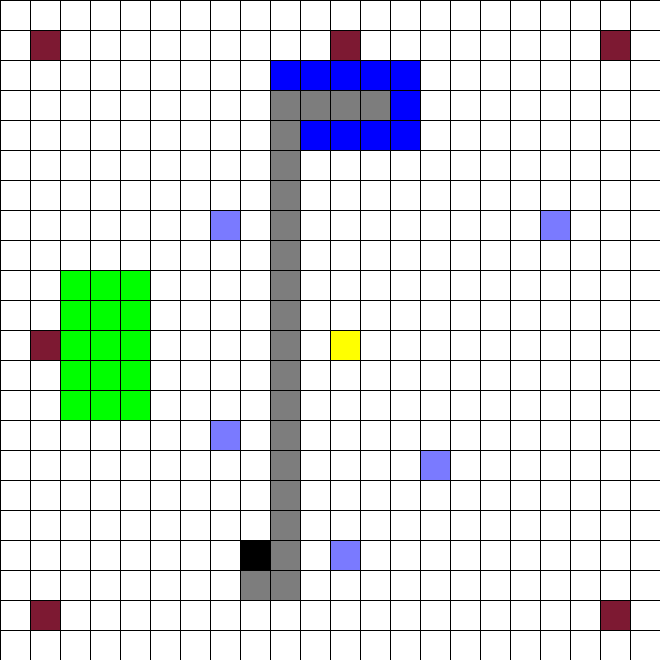
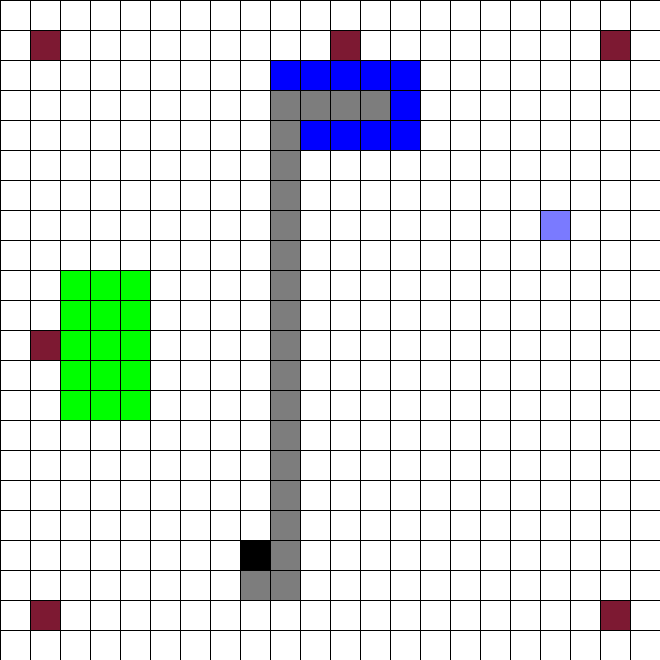
[command center for bots]

diff --git a/Dijkstar_Algo.py b/Dijkstar_Algo.py
@@ -127,7 +127,8 @@ def find_closest_indices(grid, value1, value2):
     return None
 
 def position_Bot(bot_id,grid,img_id): #img_id is just for output of process and is not nedded
-    
+    final_path = []
+    matrix_array = np.array(grid)
     if bot_id == '6':
         closest_start, closest_end, min_distance = find_closest_indices(matrix_array, '6', '9')
         closest_end = (closest_end[0]+1,closest_end[1])
@@ -135,10 +136,12 @@ def position_Bot(bot_id,grid,img_id): #img_id is just for output of process and 
         grid[closest_end[0] - 1][closest_end[1]] = 'b'
         grid[closest_start[0]][closest_start[1]] = 'a'
         grid[closest_end[0]][closest_end[1]] = '6'
-        
+
         matrix_array = np.array(grid)
-        cv2.imshow('1PathGrid{}'.format(u),draw_grid(grid,path))
-        cv2.imwrite('images/Dijkstar/bot1/{}PathGrid.png'.format(img_id),draw_grid(grid,path))
+        # cv2.imshow('1PathGrid{}'.format(img_id),draw_grid(grid,path))
+        # cv2.imwrite('images/Dijkstar/bot1/{}PathGrid.png'.format(img_id),draw_grid(grid,path))
+
+        final_path.append({1:path})
 
     if bot_id == '7':
         closest_start, closest_end, min_distance = find_closest_indices(matrix_array, '7', '8')
@@ -149,78 +152,71 @@ def position_Bot(bot_id,grid,img_id): #img_id is just for output of process and 
         grid[closest_end[0]][closest_end[1]] = '7'
         
         matrix_array = np.array(grid)
-        cv2.imshow('2PathGrid{}'.format(u),draw_grid(grid,path))
-        cv2.imwrite('images/Dijkstar/bot2/{}PathGrid.png'.format(img_id),draw_grid(grid,path))
+        # cv2.imshow('2PathGrid{}'.format(img_id),draw_grid(grid,path))
+        # cv2.imwrite('images/Dijkstar/bot2/{}PathGrid.png'.format(img_id),draw_grid(grid,path))
+
+        final_path.append({2:path})
+    final_path = final_path[0] if final_path else {}
+    return final_path,grid
+
+def take_home(bot_id,grid,img_id): #img_id is just for output of process and is not nedded
+    final_path = []
+    matrix_array = np.array(grid)
+    if bot_id == '6':
+        closest_start, closest_end, min_distance = find_closest_indices(matrix_array, '6', '4')
+        closest_end = (closest_end[0] + 2, closest_end[1] + 1)
+        path = astar(closest_start, closest_end, grid)
+        grid[closest_start[0]][closest_start[1]] = 'a'
+        grid[closest_start[0] - 1][closest_start[1]] = 'a'
+        grid[closest_end[0]][closest_end[1]] = '6'
+        matrix_array = np.array(grid)
+
+        final_path.append({1:path})
+        # cv2.imshow('1PushGrid{}'.format(img_id),draw_grid(grid,path))
+        # cv2.imwrite('images/Dijkstar/bot1/{}PushGrid.png'.format(img_id),draw_grid(grid,path))
+
+    if bot_id == '7':
+        closest_start, closest_end, min_distance = find_closest_indices(matrix_array, '7', '5')
+        closest_end = (closest_end[0] +1, closest_end[1] + 2)
+        path = astar(closest_start, closest_end, grid)
+        grid[closest_start[0]][closest_start[1]] = 'a'
+        grid[closest_start[0] - 1][closest_start[1]] = 'a'
+        grid[closest_end[0]][closest_end[1]] = '7'
+        matrix_array = np.array(grid)
+
+        final_path.append({2:path})
+        # cv2.imshow('2PushGrid{}'.format(img_id),draw_grid(grid,path))
+        # cv2.imwrite('images/Dijkstar/bot2/{}PushGrid.png'.format(img_id),draw_grid(grid,path))
+    final_path = final_path[0] if final_path else {}
+    return final_path,grid
 
 def main():
 
     image_path = '\Yantra_Swarmonoid-trainingMaterial\images\BoardGrid.png'
     grid =generate_matrix_from_image(cv2.imread(image_path))[0]
     matrix_array = np.array(grid)
+    img_id=1
+    while find_closest_indices(matrix_array, '6', '9') != None or find_closest_indices(matrix_array, '7', '8') != None:
+        pick_path = []
+        return_path = []
+        if find_closest_indices(matrix_array, '6', '9') != None:
+            obj_path,grid = position_Bot('6',grid,img_id)
+            ret_path,grid = take_home('6',grid,img_id) 
+            pick_path.append(obj_path)
+            return_path.append(ret_path)
 
-    u=1
-    while find_closest_indices(matrix_array, '6', '9') is not None or find_closest_indices(matrix_array, '7', '8') is not None:
-        if find_closest_indices(matrix_array, '6', '9') is not None:
-            closest_start, closest_end, min_distance = find_closest_indices(matrix_array, '6', '9')
-            closest_end = (closest_end[0]+1,closest_end[1])
-            path = astar(closest_start, closest_end,grid)
-            grid[closest_end[0] - 1][closest_end[1]] = 'b'
-            grid[closest_start[0]][closest_start[1]] = 'a'
-            grid[closest_end[0]][closest_end[1]] = '6'
-            
-            matrix_array = np.array(grid)
-            cv2.imshow('1PathGrid{}'.format(u),draw_grid(grid,path))
-            cv2.imwrite('images/Dijkstar/bot1/{}PathGrid.png'.format(u),draw_grid(grid,path))
+        if find_closest_indices(matrix_array, '7', '8') != None:
+            obj_path,grid = position_Bot('7',grid,img_id)
+            ret_path,grid = take_home('7',grid,img_id)
+            pick_path.append(obj_path)
+            return_path.append(ret_path)
 
-        if find_closest_indices(matrix_array, '7', '8') is not None:
-            closest_start, closest_end, min_distance = find_closest_indices(matrix_array, '7', '8')
-            closest_end = (closest_end[0]+1,closest_end[1])
-            path = astar(closest_start, closest_end,grid)
-            grid[closest_end[0] - 1][closest_end[1]] = 'b'
-            grid[closest_start[0]][closest_start[1]] = 'a'
-            grid[closest_end[0]][closest_end[1]] = '7'
-            
-            matrix_array = np.array(grid)
-            cv2.imshow('2PathGrid{}'.format(u),draw_grid(grid,path))
-            cv2.imwrite('images/Dijkstar/bot2/{}PathGrid.png'.format(u),draw_grid(grid,path))
-
-        closest_start, closest_end, min_distance = find_closest_indices(matrix_array, '6', '4')
-        closest_end = (closest_end[0] + 2, closest_end[1] + 1)
-        path1 = astar(closest_start, closest_end, grid)
-        grid[closest_start[0]][closest_start[1]] = 'a'
-        grid[closest_start[0] - 1][closest_start[1]] = 'a'
-        grid[closest_end[0]][closest_end[1]] = '6'
-        matrix_array = np.array(grid)
-
-        cv2.imshow('1PushGrid{}'.format(u),draw_grid(grid,path1))
-        cv2.imwrite('images/Dijkstar/bot1/{}PushGrid.png'.format(u),draw_grid(grid,path1))
-        u+=1
-
-    u=1
-    while find_closest_indices(matrix_array, '7', '8') is not None :  # Replace final_x, final_y with the coordinates of the final '4'
-        # Clear '8' blocks and find a path to '4'
-        closest_start, closest_end, min_distance = find_closest_indices(matrix_array, '7', '8')
-        closest_end = (closest_end[0]+1,closest_end[1])
-        path = astar(closest_start, closest_end,grid)
-        grid[closest_end[0] - 1][closest_end[1]] = 'b'
-        grid[closest_start[0]][closest_start[1]] = 'a'
-        grid[closest_end[0]][closest_end[1]] = '7'
+        matrix_array = np.array(grid) 
         
-        matrix_array = np.array(grid)
-        cv2.imshow('2PathGrid{}'.format(u),draw_grid(grid,path))
-        cv2.imwrite('images/Dijkstar/bot2/{}PathGrid.png'.format(u),draw_grid(grid,path))
-        
-        closest_start, closest_end, min_distance = find_closest_indices(matrix_array, '7', '5')
-        closest_end = (closest_end[0] +1, closest_end[1] + 2)
-        path1 = astar(closest_start, closest_end, grid)
-        grid[closest_start[0]][closest_start[1]] = 'a'
-        grid[closest_start[0] - 1][closest_start[1]] = 'a'
-        grid[closest_end[0]][closest_end[1]] = '7'
-        matrix_array = np.array(grid)
+        print("{} Pick:".format(img_id),pick_path)
+        print("{} HomePath:".format(img_id),return_path)
 
-        cv2.imshow('2PushGrid{}'.format(u),draw_grid(grid,path1))
-        cv2.imwrite('images/Dijkstar/bot2/{}PushGrid.png'.format(u),draw_grid(grid,path1))
-        u+=1
+        img_id += 1
 
         # something simmilar for 8
     cv2.waitKey(0)

diff --git a/Move_Direction.py b/Move_Direction.py
@@ -1,0 +1,91 @@
+import numpy as np
+
+def handle_rotation(current_orientation, new_rotation):
+    output = []
+
+    if current_orientation != new_rotation:
+        if current_orientation == 'F':
+            if new_rotation == 'R':
+                output.append('R')
+            elif new_rotation == 'L':
+                output.append('L')
+            elif new_rotation == 'B':
+                output.append('L')
+                output.append('L')
+        elif current_orientation == 'R':
+            if new_rotation == 'L':
+                output.append('L')
+                output.append('L')
+            elif new_rotation == 'F':
+                output.append('L')
+            elif new_rotation == 'B':
+                output.append('R')
+        elif current_orientation == 'B':
+            if new_rotation == 'L':
+                output.append('R')
+            elif new_rotation == 'F':
+                output.append('L')
+                output.append('L')
+            elif new_rotation == 'R':
+                output.append('L')
+        elif current_orientation == 'L':
+            if new_rotation == 'R':
+                output.append('L')
+                output.append('L')
+            elif new_rotation == 'F':
+                output.append('R')
+            elif new_rotation == 'B':
+                output.append('L')
+
+    return new_rotation, output
+
+def move_direction(nodes):
+    current_node = None
+    output = []
+    orientation = 'F'
+    for node in nodes:
+        next_node = node
+        if current_node is None:
+            current_node = next_node
+        elif next_node[1] < current_node[1]:
+            orientation,data = handle_rotation(orientation,'R')
+            output.extend(data)
+            output.extend('F')
+        elif next_node[1] > current_node[1]:
+            orientation,data = handle_rotation(orientation,'L')
+            output.extend(data)
+            output.extend('F')
+        elif next_node[0] < current_node[0]:
+            orientation,data = handle_rotation(orientation,'B')
+            output.extend(data)
+            output.extend('B')
+        elif next_node[0] > current_node[0]:
+            orientation,data = handle_rotation(orientation,'F')
+            output.extend(data)
+            output.extend('F')
+
+        current_node = next_node
+
+    return output
+
+def command_bot(data):
+    bot1 = next((d.get(1, []) for d in data if 1 in d), [])
+
+    bot2 = next((d.get(2, []) for d in data if 2 in d), [])
+
+    bot1_movement = move_direction(bot1)
+    bot2_movement = move_direction(bot2)
+
+    max_length = max(len(bot1_movement), len(bot2_movement))
+
+    for i in range(max_length):
+        if i < len(bot1_movement) and i < len(bot2_movement):
+            print(f"1:{bot1_movement[i]}:10")
+            print(f"2:{bot1_movement[i]}:10")
+        elif i < len(bot1_movement):
+            print(f"1:{bot1_movement[i]}:10")
+        elif i < len(bot2_movement):
+            print(f"1:{bot2_movement[i]}:10")      
+
+test_data = [{1: [(9, 14), (9, 13), (10, 13), (10, 12)]}, {2: [(11, 11), (11, 10), (11, 9), (11, 8), (12, 8), (13, 8), (14, 8), (15, 8), (15, 7)]}]
+command_bot(test_data)

diff --git a/MarkerFinder.py b/MarkerFinder.py
@@ -1,0 +1,80 @@
+from Grid import generate_matrix_from_image
+import cv2
+import numpy as np
+
+# how it sees and processes image
+def Identify_Aurco(frame):
+
+    if frame is None:
+        print("Error: Image not found or unable to load.")
+        exit(0)
+
+    arucoDict = cv2.aruco.Dictionary_get(cv2.aruco.DICT_6X6_250)
+    arucoParams = cv2.aruco.DetectorParameters_create()
+
+    (corners, ids, rejected) = cv2.aruco.detectMarkers(frame, arucoDict, parameters=arucoParams)
+
+    if ids is not None:
+        for i, marker_id in enumerate(ids.flatten()):
+            corners_array = corners[i][0]
+            if len(corners_array) > 0:
+                corner_tuples = np.array(corners_array, dtype=np.int32)
+                cv2.polylines(frame, [np.array(corner_tuples)], True, (0, 255, 0), 2)
+
+                centroid = np.mean(corners_array, axis=0, dtype=np.int32)
+                cv2.putText(frame, f"ID: {marker_id}", tuple(centroid), cv2.FONT_HERSHEY_SIMPLEX, 0.5, (0, 255, 0), 2)
+
+    
+    return frame
+
+# how it sees and processes image
+def Image_Grid(frame):
+
+    line_color = (255, 0, 0)
+    line_thickness = 1  
+    grid_spacing = 50 
+
+    if frame is None:
+        print("Error: Image not found or unable to load.")
+        exit(0)
+
+    arucoDict = cv2.aruco.Dictionary_get(cv2.aruco.DICT_6X6_250)
+    arucoParams = cv2.aruco.DetectorParameters_create()
+
+    (corners, ids, rejected) = cv2.aruco.detectMarkers(frame, arucoDict, parameters=arucoParams)
+
+    if ids is not None:
+        for i, marker_id in enumerate(ids.flatten()):
+            corners_array = corners[i][0]
+            if len(corners_array) > 0:
+                corner_tuples = np.array(corners_array, dtype=np.int32)
+                cv2.polylines(frame, [np.array(corner_tuples)], True, (0, 255, 0), 2)
+
+                centroid = np.mean(corners_array, axis=0, dtype=np.int32)
+                cv2.putText(frame, f"ID: {marker_id}", tuple(centroid), cv2.FONT_HERSHEY_SIMPLEX, 0.5, (0, 255, 0), 2)
+
+    # Vertical lines
+    for x in range(grid_spacing, frame.shape[1], grid_spacing):
+        cv2.line(frame, (x, 0), (x, frame.shape[0]), line_color, line_thickness)
+
+    # Horizontal lines
+    for y in range(grid_spacing, frame.shape[0], grid_spacing):
+        cv2.line(frame, (0, y), (frame.shape[1], y), line_color, line_thickness)
+    
+    return frame
+
+vid = cv2.VideoCapture(0)
+while True:
+    _,frame = vid.read()
+    # frame = Identify_Aurco(frame)
+    frame = Image_Grid(frame)
+    # cv2.imwrite('images\BoardGrid.png',frame)
+    cv2.imshow('Grid From Board',frame)
+    cv2.imwrite('images\Grid.png',frame)
+    if cv2.waitKey(1) & 0xFF == ord('q'): 
+        break
+# print(generate_matrix_from_image(frame))
+    
+vid.release()
+cv2.waitKey(0)
+cv2.destroyAllWindows()

diff --git a/Connection.py b/Connection.py
@@ -1,4 +1,3 @@
-import socket
 import time
 
 import socket
@@ -14,26 +13,35 @@ server_socket = socket.socket(socket.AF_INET, socket.SOCK_STREAM)
 server_socket.bind((host, port))
 
 # Listen for incoming connections
-server_socket.listen(1)
+server_socket.listen(2)
 print(f"Server listening on {host}:{port}")
 
 # Accept a connection
-client_socket, client_address = server_socket.accept()
-print(f"Connection from {client_address}")
+client_socket1, client_address1 = server_socket.accept()
+print(f"Connection from {client_address1}")
+print(f"Server listening on {host}:{port}")
 
+# Accept a connection
+client_socket2, client_address2 = server_socket.accept()
+print(f"Connection from {client_address2}")
 while True:
     # Receive a response from the client
-    data = client_socket.recv(1024)
-    if not data:
+    data1 = client_socket1.recv(1024)
+    if not data1:
         break
-    print(f"Received from client: {data.decode()}")
+    data2 = client_socket2.recv(1024)
+    if not data2:
+        break
+    print(f"Received from client: {data1.decode()}")
+    print(f"Received from client: {data2.decode()}")
 
     # Send a response back to the client
     # str(dir) + ":" + str(time)
     
-    response = input("enter dir:time")
-    client_socket.sendall(response.encode())
+    response = input("Bot No:enter dir:time") #10
+    client_socket1.sendall(response.encode())
+    client_socket2.sendall(response.encode())
 # Close the connection
-client_socket.close()
+client_socket1.close()
+client_socket2.close()
 server_socket.close()
-
